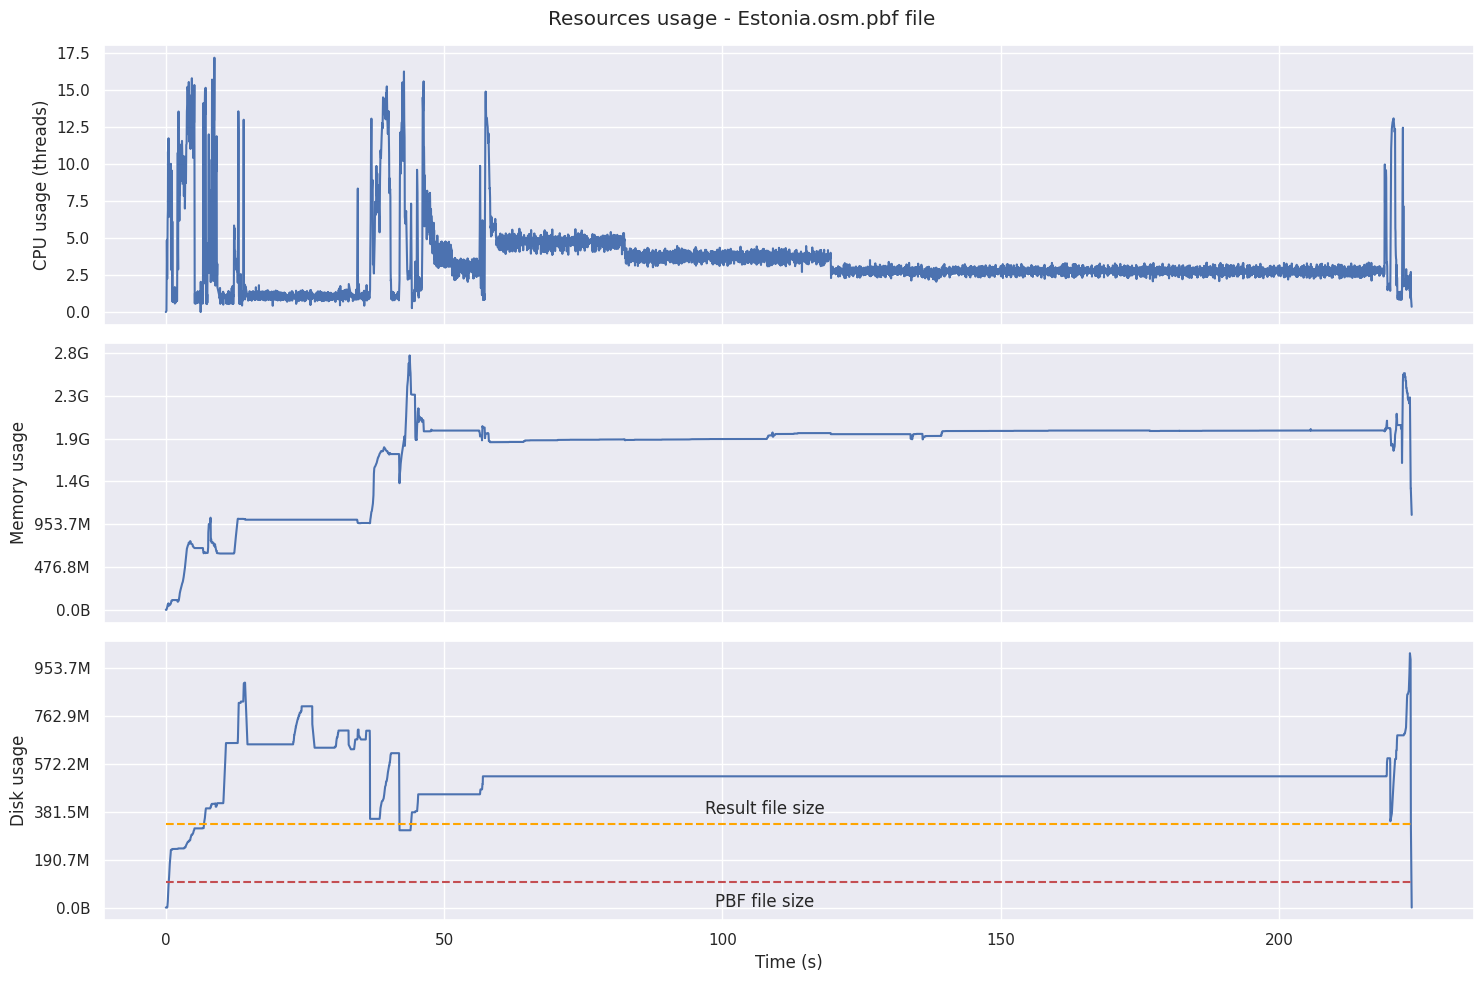
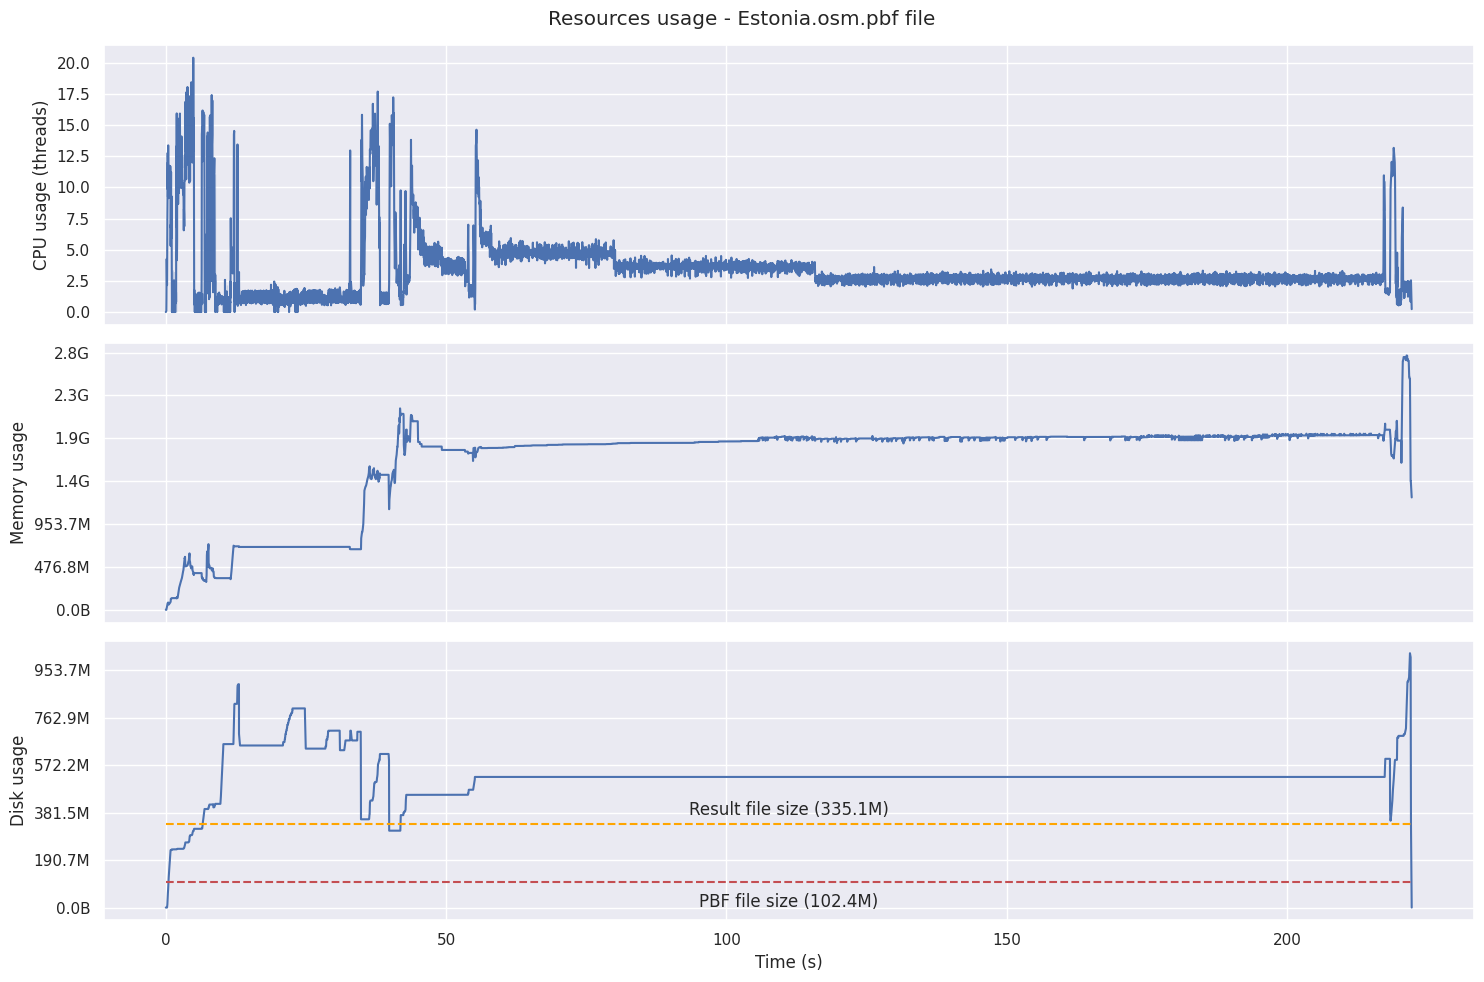
fix: changed geometry orientation for hashing algorithm (#75)
* fix: changed geometry orientation for hashing

* chore: added changelog entry

* chore: change test values

* chore: simplify duplication reduction algorithm

* chore: change resource usage charts

diff --git a/tests/base/test_cli.py b/tests/base/test_cli.py
@@ -5,11 +5,10 @@ from pathlib import Path
 
 import pytest
 from parametrization import Parametrization as P
-from shapely import to_geojson, to_wkt
-from shapely.geometry import Polygon, box
 from typer.testing import CliRunner
 
 from quackosm import __app_name__, __version__, cli
+from tests.base.conftest import geometry_boundary_file_path, geometry_geojson, geometry_wkt
 
 runner = CliRunner()
 
@@ -18,31 +17,6 @@ runner = CliRunner()
 def monaco_pbf_file_path() -> str:
     """Monaco PBF file path fixture."""
     return str(Path(__file__).parent.parent / "test_files" / "monaco.osm.pbf")
-
-
-def geometry_box() -> Polygon:
-    """Geometry box."""
-    return box(
-        minx=7.416486207767861,
-        miny=43.7310867041912,
-        maxx=7.421931388477276,
-        maxy=43.73370705597216,
-    )
-
-
-def geometry_wkt() -> str:
-    """Geometry box in WKT form."""
-    return str(to_wkt(geometry_box()))
-
-
-def geometry_geojson() -> str:
-    """Geometry box in GeoJSON form."""
-    return str(to_geojson(geometry_box()))
-
-
-def geometry_boundary_file_path() -> str:
-    """Geometry Monaco boundary file path."""
-    return str(Path(__file__).parent.parent / "test_files" / "monaco_boundary.geojson")
 
 
 def osm_tags_filter_file_path() -> str:
@@ -182,7 +156,7 @@ def test_silent_mode(monaco_pbf_file_path: str) -> None:
 @P.case(
     "Geometry file filter",
     ["--geom-filter-file", geometry_boundary_file_path()],
-    "files/monaco_nofilter_6e3ec5872bf41c2c44698fcf71266971c552d13feea19c3714e171bcd7a2b2c8_compact.geoparquet",
+    "files/monaco_nofilter_6a869bcfa1a49ade8b76569e48e4142bce29098815bf37e57155a18204f2bbbc_compact.geoparquet",
 )  # type: ignore
 @P.case(
     "Geometry geocode filter",
@@ -197,7 +171,7 @@ def test_silent_mode(monaco_pbf_file_path: str) -> None:
 @P.case(
     "Geometry Geohash filter multiple",
     ["--geom-filter-index-geohash", "spv2bc,spv2bfr"],
-    "files/monaco_nofilter_72883922e5d6e81ab15e5bc2104bd7318d28ffe897a1858f64ba77bafdf62d66_compact.geoparquet",
+    "files/monaco_nofilter_1bd33e0afc3cd0efcb4740185b8a05ecaf1bac916d571403768939b82844b43e_compact.geoparquet",
 )  # type: ignore
 @P.case(
     "Geometry H3 filter",
@@ -207,7 +181,7 @@ def test_silent_mode(monaco_pbf_file_path: str) -> None:
 @P.case(
     "Geometry H3 filter multiple",
     ["--geom-filter-index-h3", "8a3969a40ac7fff,893969a4037ffff"],
-    "files/monaco_nofilter_9671a25e17150e6171275ed3dc3a96099386644dbbb93d6f4222360e840b7799_compact.geoparquet",
+    "files/monaco_nofilter_e50e6489d4faba664a3c7f9729b7a3bedafb7a396ae826521f32b556d0b554f1_compact.geoparquet",
 )  # type: ignore
 @P.case(
     "Geometry S2 filter",
@@ -217,7 +191,7 @@ def test_silent_mode(monaco_pbf_file_path: str) -> None:
 @P.case(
     "Geometry S2 filter multiple",
     ["--geom-filter-index-s2", "12cdc28bc,12cdc28f"],
-    "files/monaco_nofilter_35e189b968b4f8d8c27c25b0dab484a6623745d1c85dcb77d19599ed0f7ba802_compact.geoparquet",
+    "files/monaco_nofilter_cda5d65e169e3ff04970e66e80b021937a5ae141ed72428cc0d9a3764bf076db_compact.geoparquet",
 )  # type: ignore
 @P.case(
     "Filter OSM features IDs",
@@ -302,7 +276,7 @@ def test_proper_args_with_pbf(
 @P.case(
     "Geometry Geohash filter multiple",
     ["--geom-filter-index-geohash", "spv2bc,spv2bfr"],
-    "files/72883922e5d6e81ab15e5bc2104bd7318d28ffe897a1858f64ba77bafdf62d66_nofilter_compact.geoparquet",
+    "files/1bd33e0afc3cd0efcb4740185b8a05ecaf1bac916d571403768939b82844b43e_nofilter_compact.geoparquet",
 )  # type: ignore
 @P.case(
     "Geometry H3 filter",
@@ -312,7 +286,7 @@ def test_proper_args_with_pbf(
 @P.case(
     "Geometry H3 filter multiple",
     ["--geom-filter-index-h3", "8a3969a40ac7fff,893969a4037ffff"],
-    "files/9671a25e17150e6171275ed3dc3a96099386644dbbb93d6f4222360e840b7799_nofilter_compact.geoparquet",
+    "files/e50e6489d4faba664a3c7f9729b7a3bedafb7a396ae826521f32b556d0b554f1_nofilter_compact.geoparquet",
 )  # type: ignore
 @P.case(
     "Geometry S2 filter",
@@ -322,47 +296,47 @@ def test_proper_args_with_pbf(
 @P.case(
     "Geometry S2 filter multiple",
     ["--geom-filter-index-s2", "12cdc28bc,12cdc28f"],
-    "files/35e189b968b4f8d8c27c25b0dab484a6623745d1c85dcb77d19599ed0f7ba802_nofilter_compact.geoparquet",
+    "files/cda5d65e169e3ff04970e66e80b021937a5ae141ed72428cc0d9a3764bf076db_nofilter_compact.geoparquet",
 )  # type: ignore
 @P.case(
     "Geometry file filter with different OSM source",
     ["--geom-filter-file", geometry_boundary_file_path(), "--osm-extract-source", "OSMfr"],
-    "files/6e3ec5872bf41c2c44698fcf71266971c552d13feea19c3714e171bcd7a2b2c8_nofilter_compact.geoparquet",
+    "files/6a869bcfa1a49ade8b76569e48e4142bce29098815bf37e57155a18204f2bbbc_nofilter_compact.geoparquet",
 )  # type: ignore
 @P.case(
     "Explode",
     ["--geom-filter-file", geometry_boundary_file_path(), "--explode-tags"],
-    "files/6e3ec5872bf41c2c44698fcf71266971c552d13feea19c3714e171bcd7a2b2c8_nofilter_exploded.geoparquet",
+    "files/6a869bcfa1a49ade8b76569e48e4142bce29098815bf37e57155a18204f2bbbc_nofilter_exploded.geoparquet",
 )  # type: ignore
 @P.case(
     "Explode short",
     ["--geom-filter-file", geometry_boundary_file_path(), "--explode"],
-    "files/6e3ec5872bf41c2c44698fcf71266971c552d13feea19c3714e171bcd7a2b2c8_nofilter_exploded.geoparquet",
+    "files/6a869bcfa1a49ade8b76569e48e4142bce29098815bf37e57155a18204f2bbbc_nofilter_exploded.geoparquet",
 )  # type: ignore
 @P.case(
     "Compact",
     ["--geom-filter-file", geometry_boundary_file_path(), "--compact-tags"],
-    "files/6e3ec5872bf41c2c44698fcf71266971c552d13feea19c3714e171bcd7a2b2c8_nofilter_compact.geoparquet",
+    "files/6a869bcfa1a49ade8b76569e48e4142bce29098815bf37e57155a18204f2bbbc_nofilter_compact.geoparquet",
 )  # type: ignore
 @P.case(
     "Compact short",
     ["--geom-filter-file", geometry_boundary_file_path(), "--compact"],
-    "files/6e3ec5872bf41c2c44698fcf71266971c552d13feea19c3714e171bcd7a2b2c8_nofilter_compact.geoparquet",
+    "files/6a869bcfa1a49ade8b76569e48e4142bce29098815bf37e57155a18204f2bbbc_nofilter_compact.geoparquet",
 )  # type: ignore
 @P.case(
     "Working directory",
     ["--geom-filter-file", geometry_boundary_file_path(), "--working-directory", "files/workdir"],
-    "files/workdir/6e3ec5872bf41c2c44698fcf71266971c552d13feea19c3714e171bcd7a2b2c8_nofilter_compact.geoparquet",
+    "files/workdir/6a869bcfa1a49ade8b76569e48e4142bce29098815bf37e57155a18204f2bbbc_nofilter_compact.geoparquet",
 )  # type: ignore
 @P.case(
     "Ignore cache",
     ["--geom-filter-file", geometry_boundary_file_path(), "--ignore-cache"],
-    "files/6e3ec5872bf41c2c44698fcf71266971c552d13feea19c3714e171bcd7a2b2c8_nofilter_compact.geoparquet",
+    "files/6a869bcfa1a49ade8b76569e48e4142bce29098815bf37e57155a18204f2bbbc_nofilter_compact.geoparquet",
 )  # type: ignore
 @P.case(
     "Ignore cache short",
     ["--geom-filter-file", geometry_boundary_file_path(), "--no-cache"],
-    "files/6e3ec5872bf41c2c44698fcf71266971c552d13feea19c3714e171bcd7a2b2c8_nofilter_compact.geoparquet",
+    "files/6a869bcfa1a49ade8b76569e48e4142bce29098815bf37e57155a18204f2bbbc_nofilter_compact.geoparquet",
 )  # type: ignore
 @P.case(
     "Output",
@@ -399,7 +373,7 @@ def test_proper_args_with_pbf(
         "--osm-tags-filter",
         '{"building": true, "highway": ["primary", "secondary"], "amenity": "bench"}',
     ],
-    "files/6e3ec5872bf41c2c44698fcf71266971c552d13feea19c3714e171bcd7a2b2c8_a9dd1c3c2e3d6a94354464e9a1a536ef44cca77eebbd882f48ca52799eb4ca91_exploded.geoparquet",
+    "files/6a869bcfa1a49ade8b76569e48e4142bce29098815bf37e57155a18204f2bbbc_a9dd1c3c2e3d6a94354464e9a1a536ef44cca77eebbd882f48ca52799eb4ca91_exploded.geoparquet",
 )  # type: ignore
 @P.case(
     "OSM tags filter compact",
@@ -410,7 +384,7 @@ def test_proper_args_with_pbf(
         '{"building": true, "highway": ["primary", "secondary"], "amenity": "bench"}',
         "--compact",
     ],
-    "files/6e3ec5872bf41c2c44698fcf71266971c552d13feea19c3714e171bcd7a2b2c8_a9dd1c3c2e3d6a94354464e9a1a536ef44cca77eebbd882f48ca52799eb4ca91_compact.geoparquet",
+    "files/6a869bcfa1a49ade8b76569e48e4142bce29098815bf37e57155a18204f2bbbc_a9dd1c3c2e3d6a94354464e9a1a536ef44cca77eebbd882f48ca52799eb4ca91_compact.geoparquet",
 )  # type: ignore
 @P.case(
     "OSM tags filter file",
@@ -420,7 +394,7 @@ def test_proper_args_with_pbf(
         "--osm-tags-filter-file",
         osm_tags_filter_file_path(),
     ],
-    "files/6e3ec5872bf41c2c44698fcf71266971c552d13feea19c3714e171bcd7a2b2c8_a9dd1c3c2e3d6a94354464e9a1a536ef44cca77eebbd882f48ca52799eb4ca91_exploded.geoparquet",
+    "files/6a869bcfa1a49ade8b76569e48e4142bce29098815bf37e57155a18204f2bbbc_a9dd1c3c2e3d6a94354464e9a1a536ef44cca77eebbd882f48ca52799eb4ca91_exploded.geoparquet",
 )  # type: ignore
 @P.case(
     "OSM tags filter file compact",
@@ -431,7 +405,7 @@ def test_proper_args_with_pbf(
         osm_tags_filter_file_path(),
         "--compact",
     ],
-    "files/6e3ec5872bf41c2c44698fcf71266971c552d13feea19c3714e171bcd7a2b2c8_a9dd1c3c2e3d6a94354464e9a1a536ef44cca77eebbd882f48ca52799eb4ca91_compact.geoparquet",
+    "files/6a869bcfa1a49ade8b76569e48e4142bce29098815bf37e57155a18204f2bbbc_a9dd1c3c2e3d6a94354464e9a1a536ef44cca77eebbd882f48ca52799eb4ca91_compact.geoparquet",
 )  # type: ignore
 @P.case(
     "OSM tags filter grouped",
@@ -441,7 +415,7 @@ def test_proper_args_with_pbf(
         "--osm-tags-filter",
         '{"group": {"building": true, "highway": ["primary", "secondary"], "amenity": "bench"} }',
     ],
-    "files/6e3ec5872bf41c2c44698fcf71266971c552d13feea19c3714e171bcd7a2b2c8_654daac5550b95c8c0e3c57a75a1e16dfa638946461e0977af8f9ca98039db06_exploded.geoparquet",
+    "files/6a869bcfa1a49ade8b76569e48e4142bce29098815bf37e57155a18204f2bbbc_654daac5550b95c8c0e3c57a75a1e16dfa638946461e0977af8f9ca98039db06_exploded.geoparquet",
 )  # type: ignore
 @P.case(
     "OSM tags filter grouped compact",
@@ -452,7 +426,7 @@ def test_proper_args_with_pbf(
         '{"group": {"building": true, "highway": ["primary", "secondary"], "amenity": "bench"} }',
         "--compact",
     ],
-    "files/6e3ec5872bf41c2c44698fcf71266971c552d13feea19c3714e171bcd7a2b2c8_654daac5550b95c8c0e3c57a75a1e16dfa638946461e0977af8f9ca98039db06_compact.geoparquet",
+    "files/6a869bcfa1a49ade8b76569e48e4142bce29098815bf37e57155a18204f2bbbc_654daac5550b95c8c0e3c57a75a1e16dfa638946461e0977af8f9ca98039db06_compact.geoparquet",
 )  # type: ignore
 @P.case(
     "Filter OSM features IDs",
@@ -462,7 +436,7 @@ def test_proper_args_with_pbf(
         "--filter-osm-ids",
         "way/94399646,node/3617982224,relation/36990",
     ],
-    "files/6e3ec5872bf41c2c44698fcf71266971c552d13feea19c3714e171bcd7a2b2c8_nofilter_compact_c740a1597e53ae8c5e98c5119eaa1893ddc177161afe8642addcbe54a6dc089d.geoparquet",
+    "files/6a869bcfa1a49ade8b76569e48e4142bce29098815bf37e57155a18204f2bbbc_nofilter_compact_c740a1597e53ae8c5e98c5119eaa1893ddc177161afe8642addcbe54a6dc089d.geoparquet",
 )  # type: ignore
 @P.case(
     "Keep all tags",
@@ -471,7 +445,7 @@ def test_proper_args_with_pbf(
         geometry_boundary_file_path(),
         "--keep-all-tags",
     ],
-    "files/6e3ec5872bf41c2c44698fcf71266971c552d13feea19c3714e171bcd7a2b2c8_nofilter_compact.geoparquet",
+    "files/6a869bcfa1a49ade8b76569e48e4142bce29098815bf37e57155a18204f2bbbc_nofilter_compact.geoparquet",
 )  # type: ignore
 @P.case(
     "OSM tags filter with keep all tags",
@@ -482,7 +456,7 @@ def test_proper_args_with_pbf(
         "--osm-tags-filter",
         '{"building": true, "highway": ["primary", "secondary"], "amenity": "bench"}',
     ],
-    "files/6e3ec5872bf41c2c44698fcf71266971c552d13feea19c3714e171bcd7a2b2c8_a9dd1c3c2e3d6a94354464e9a1a536ef44cca77eebbd882f48ca52799eb4ca91_alltags_compact.geoparquet",
+    "files/6a869bcfa1a49ade8b76569e48e4142bce29098815bf37e57155a18204f2bbbc_a9dd1c3c2e3d6a94354464e9a1a536ef44cca77eebbd882f48ca52799eb4ca91_alltags_compact.geoparquet",
 )  # type: ignore
 @P.case(
     "OSM tags filter with keep all tags compact",
@@ -494,7 +468,7 @@ def test_proper_args_with_pbf(
         '{"building": true, "highway": ["primary", "secondary"], "amenity": "bench"}',
         "--compact",
     ],
-    "files/6e3ec5872bf41c2c44698fcf71266971c552d13feea19c3714e171bcd7a2b2c8_a9dd1c3c2e3d6a94354464e9a1a536ef44cca77eebbd882f48ca52799eb4ca91_alltags_compact.geoparquet",
+    "files/6a869bcfa1a49ade8b76569e48e4142bce29098815bf37e57155a18204f2bbbc_a9dd1c3c2e3d6a94354464e9a1a536ef44cca77eebbd882f48ca52799eb4ca91_alltags_compact.geoparquet",
 )  # type: ignore
 @P.case(
     "OSM tags filter with keep all tags exploded",
@@ -506,7 +480,7 @@ def test_proper_args_with_pbf(
         '{"building": true, "highway": ["primary", "secondary"], "amenity": "bench"}',
         "--explode",
     ],
-    "files/6e3ec5872bf41c2c44698fcf71266971c552d13feea19c3714e171bcd7a2b2c8_a9dd1c3c2e3d6a94354464e9a1a536ef44cca77eebbd882f48ca52799eb4ca91_alltags_exploded.geoparquet",
+    "files/6a869bcfa1a49ade8b76569e48e4142bce29098815bf37e57155a18204f2bbbc_a9dd1c3c2e3d6a94354464e9a1a536ef44cca77eebbd882f48ca52799eb4ca91_alltags_exploded.geoparquet",
 )  # type: ignore
 @P.case(
     "OSM way polygon config",
@@ -516,7 +490,7 @@ def test_proper_args_with_pbf(
         "--osm-way-polygon-config",
         osm_way_config_file_path(),
     ],
-    "files/6e3ec5872bf41c2c44698fcf71266971c552d13feea19c3714e171bcd7a2b2c8_nofilter_compact.geoparquet",
+    "files/6a869bcfa1a49ade8b76569e48e4142bce29098815bf37e57155a18204f2bbbc_nofilter_compact.geoparquet",
 )  # type: ignore
 @P.case(
     "Allow not covered geometry",

diff --git a/tests/base/test_pbf_file_reader.py b/tests/base/test_pbf_file_reader.py
@@ -17,7 +17,7 @@ import pytest
 import six
 from parametrization import Parametrization as P
 from shapely import from_wkt, hausdorff_distance
-from shapely.geometry import MultiPolygon, Polygon, box
+from shapely.geometry import LinearRing, MultiPolygon, Polygon, box, polygon
 from shapely.geometry.base import BaseGeometry
 from shapely.ops import unary_union
 from srai.geometry import remove_interiors
@@ -35,6 +35,7 @@ from quackosm.cli import (
 )
 from quackosm.osm_extracts import OsmExtractSource
 from quackosm.pbf_file_reader import PbfFileReader
+from tests.base.conftest import geometry_box
 
 ut = TestCase()
 LFS_DIRECTORY_URL = "https://github.com/kraina-ai/srai-test-files/raw/main/files/"
@@ -135,6 +136,31 @@ def test_pbf_reader_geometry_filtering():  # type: ignore
         ignore_cache=True,
     )
     assert len(features_gdf) == 0
+
+
+@pytest.mark.parametrize(
+    "geometry",
+    [
+        geometry_box(),
+        from_wkt(
+            "POLYGON ((-43.064 29.673, -43.064 29.644, -43.017 29.644,"
+            " -43.017 29.673, -43.064 29.673))"
+        ),
+    ],
+)  # type: ignore
+def test_geometry_hash_calculation(geometry: BaseGeometry):
+    """Test if geometry hash is orientation-agnostic."""
+    if isinstance(geometry, Polygon):
+        oriented_a = polygon.orient(geometry, sign=1.0)
+        oriented_b = polygon.orient(geometry, sign=-1.0)
+    elif isinstance(geometry, LinearRing):
+        oriented_a = geometry
+        oriented_b = LinearRing(list(geometry.coords)[::-1])
+
+    assert (
+        PbfFileReader(geometry_filter=oriented_a)._get_oriented_geometry_filter()
+        == PbfFileReader(geometry_filter=oriented_b)._get_oriented_geometry_filter()
+    )
 
 
 def test_unique_osm_ids_duplicated_file():  # type: ignore

diff --git a/quackosm/pbf_file_reader.py b/quackosm/pbf_file_reader.py
@@ -511,6 +511,9 @@ class PbfFileReader:
     def _drop_duplicated_features_in_pyarrow_table(
         self, parsed_geoparquet_files: list[Path]
     ) -> pa.Table:
+        if len(parsed_geoparquet_files) == 1:
+            return pq.read_table(parsed_geoparquet_files[0])
+
         with TaskProgressSpinner("Combining results", "", self.silent_mode, skip_step_number=True):
             parquet_tables = [
                 pq.read_table(parsed_parquet_file)
@@ -796,7 +799,10 @@ class PbfFileReader:
         if isinstance(geometry, LinearRing):
             # https://stackoverflow.com/a/73073112/7766101
             new_coords = []
-            perimeter = list(geometry.coords)
+            if geometry.is_ccw:
+                perimeter = list(geometry.coords)
+            else:
+                perimeter = list(geometry.coords)[::-1]
             smallest_point = sorted(perimeter)[0]
             double_iteration = itertools.chain(perimeter[:-1], perimeter)
             for point in double_iteration:

diff --git a/tests/base/conftest.py b/tests/base/conftest.py
@@ -1,0 +1,30 @@
+"""Common components for tests."""
+from pathlib import Path
+
+from shapely import to_geojson, to_wkt
+from shapely.geometry import Polygon, box
+
+
+def geometry_box() -> Polygon:
+    """Geometry box."""
+    return box(
+        minx=7.416486207767861,
+        miny=43.7310867041912,
+        maxx=7.421931388477276,
+        maxy=43.73370705597216,
+    )
+
+
+def geometry_wkt() -> str:
+    """Geometry box in WKT form."""
+    return str(to_wkt(geometry_box()))
+
+
+def geometry_geojson() -> str:
+    """Geometry box in GeoJSON form."""
+    return str(to_geojson(geometry_box()))
+
+
+def geometry_boundary_file_path() -> str:
+    """Geometry Monaco boundary file path."""
+    return str(Path(__file__).parent.parent / "test_files" / "monaco_boundary.geojson")

diff --git a/CHANGELOG.md b/CHANGELOG.md
@@ -7,6 +7,10 @@ and this project adheres to [Semantic Versioning](https://semver.org/spec/v2.0.0
 
 ## [Unreleased]
 
+### Fixed
+
+- Made geometry orientation agnostic hash algorithm
+
 ## [0.5.2] - 2024-04-03
 
 ### Added
